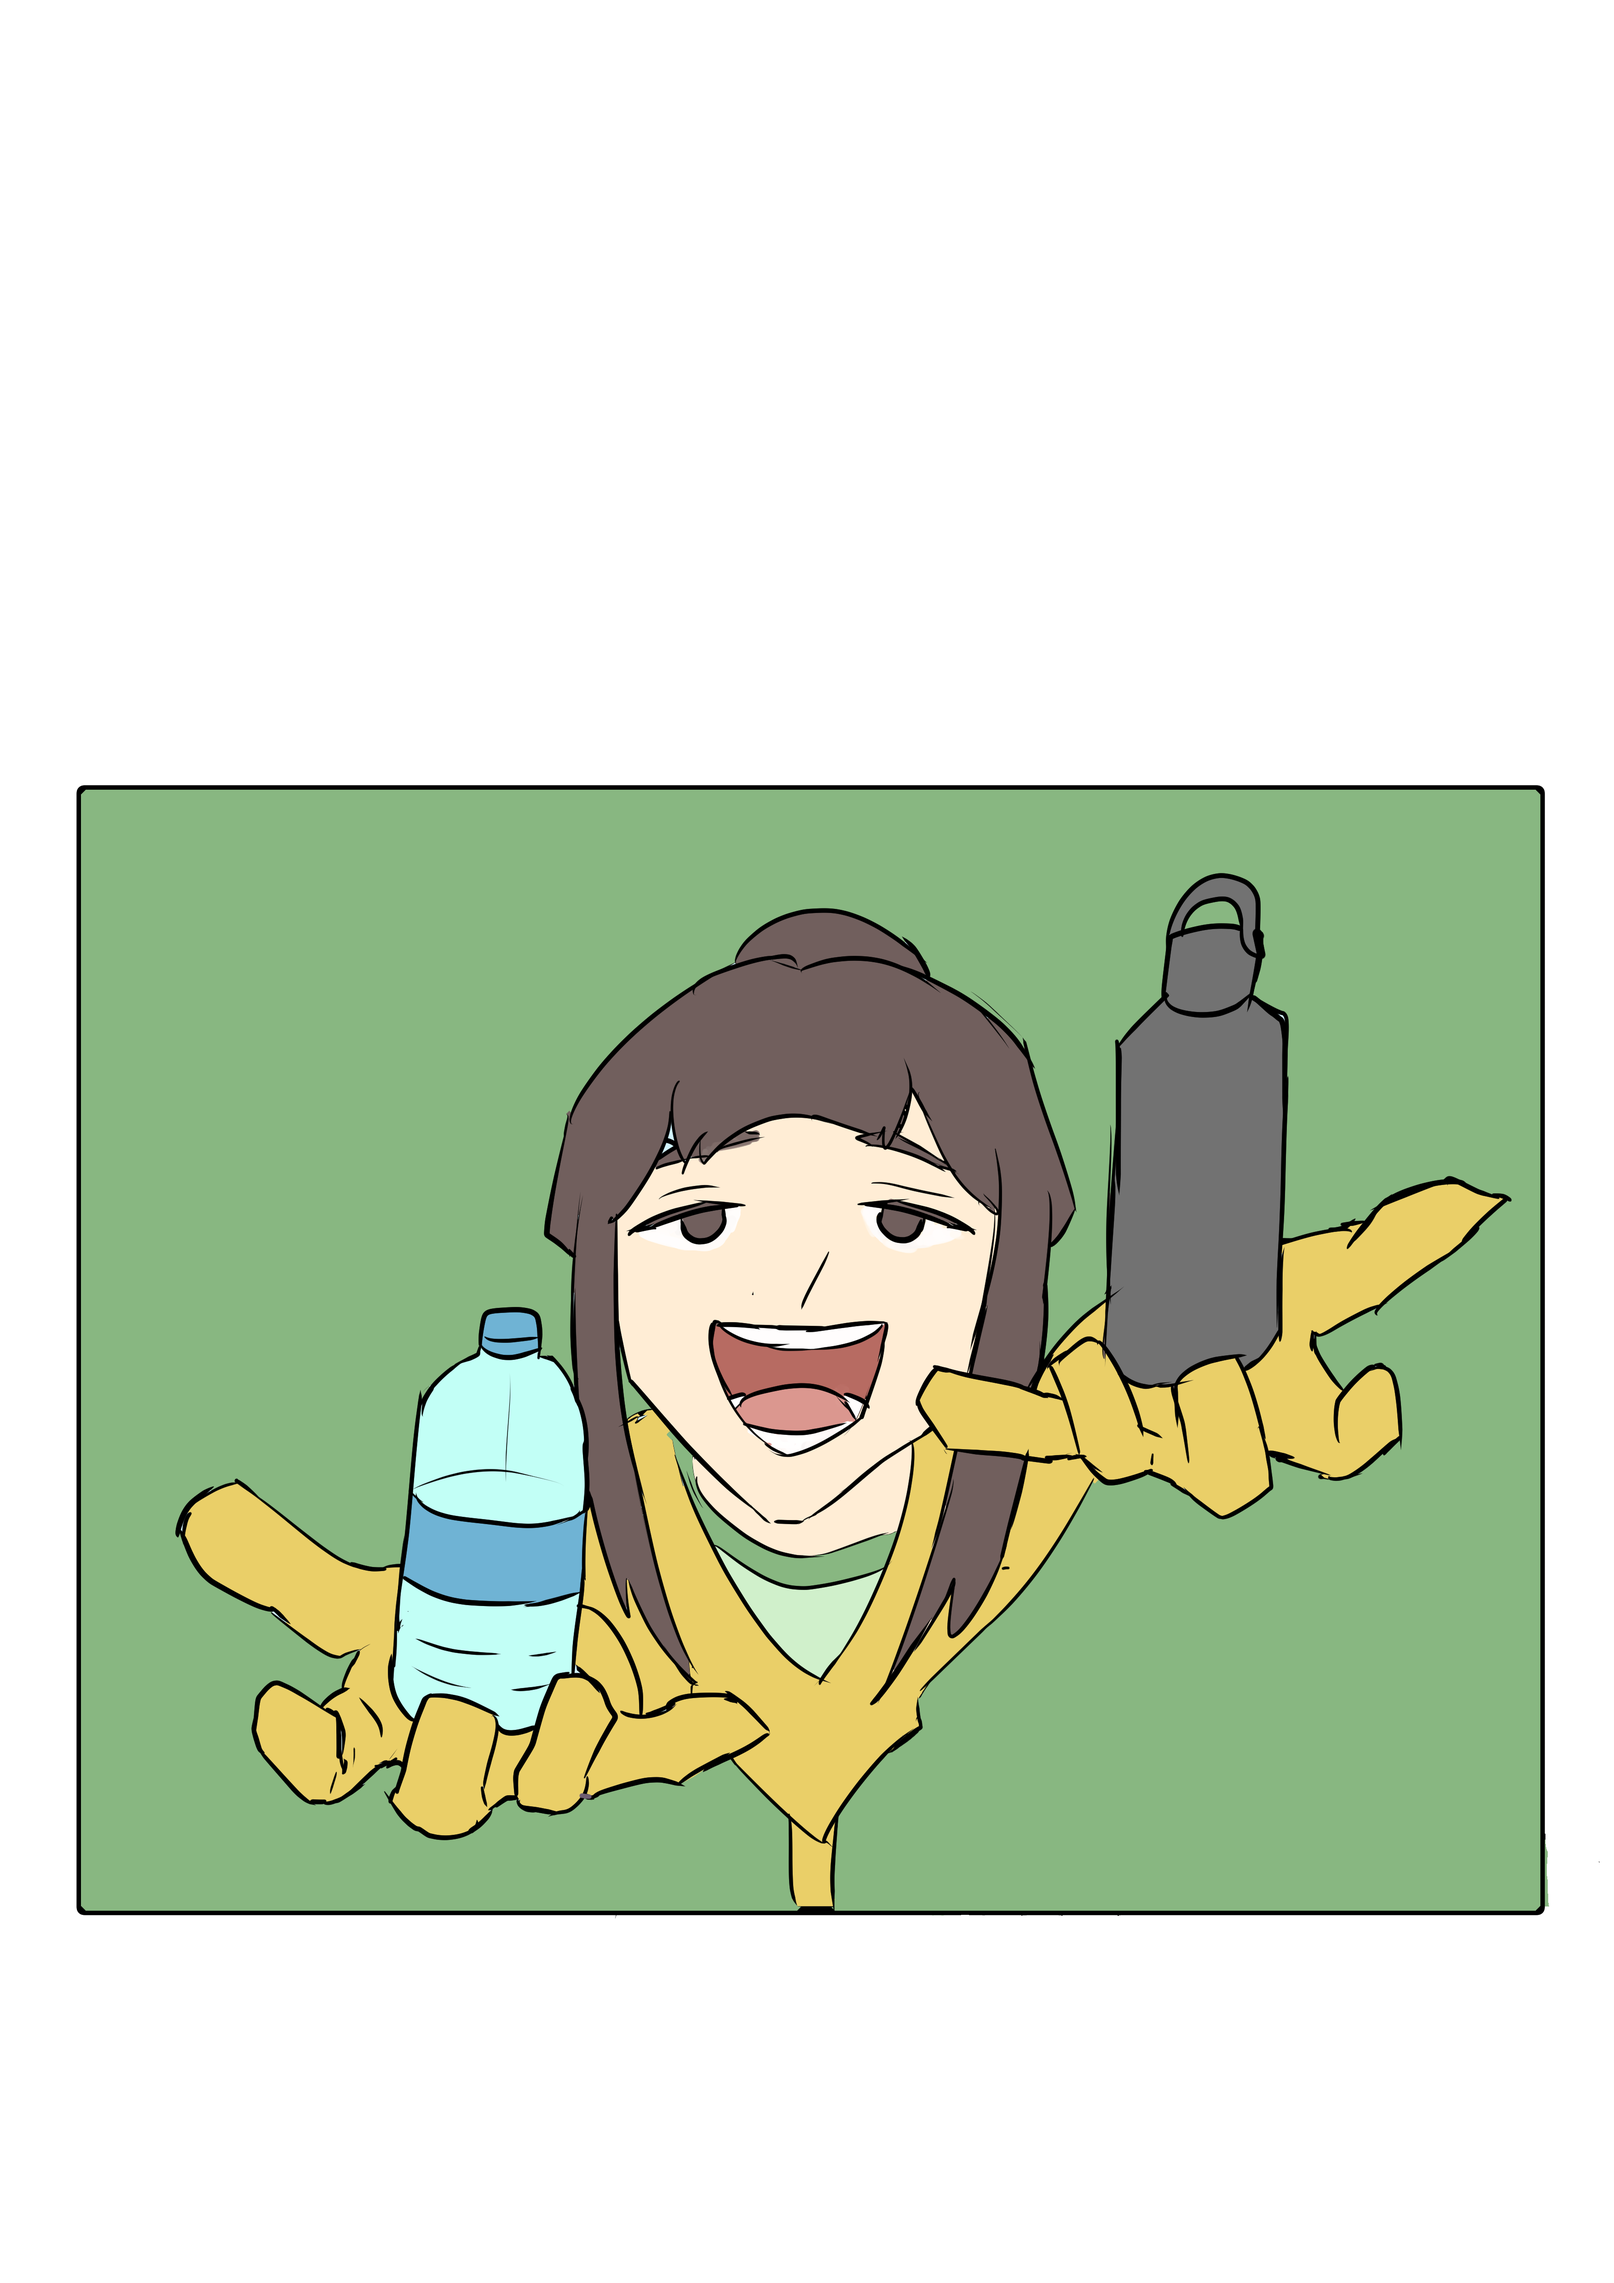
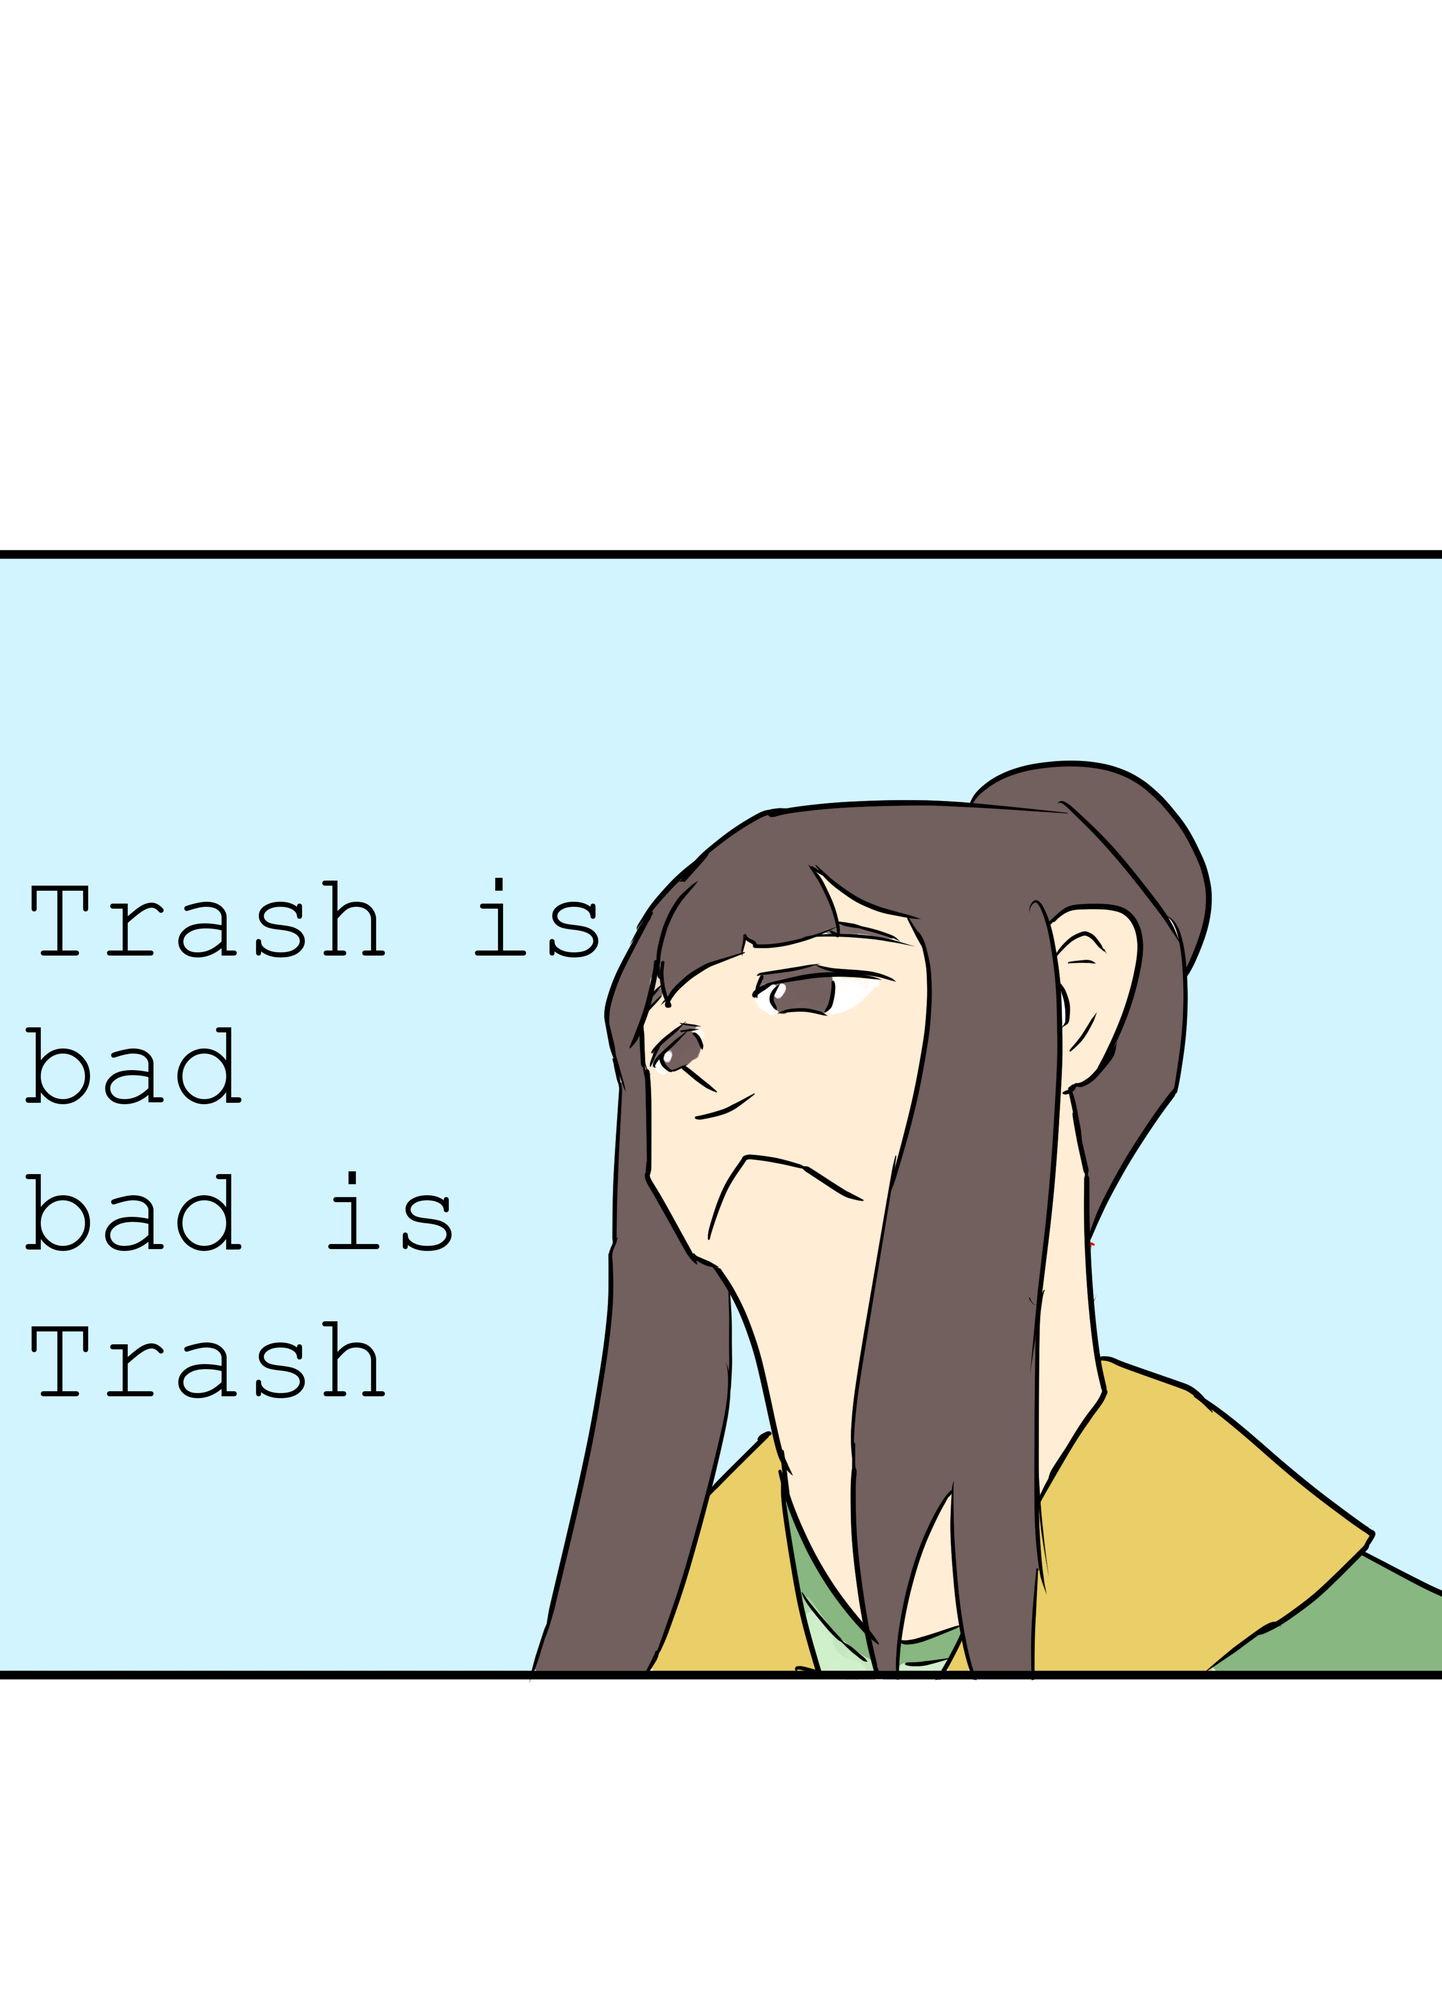
fix profile

diff --git a/frontend/src/app/api/auth/register/route.js b/frontend/src/app/api/auth/register/route.js
@@ -1,96 +1,96 @@
-import { NextResponse } from "next/server";
-import bcrypt from "bcryptjs";
-import { prisma } from "@/lib/prisma";
+  import { NextResponse } from "next/server";
+  import bcrypt from "bcryptjs";
+  import { prisma } from "@/lib/prisma";
 
-// 🔥 WAJIB (INI KUNCI UTAMA)
-export const runtime = "nodejs";
-export const dynamic = "force-dynamic";
+  // 🔥 WAJIB (INI KUNCI UTAMA)
+  export const runtime = "nodejs";
+  export const dynamic = "force-dynamic";
 
-export async function POST(request) {
-  try {
-    const { username, email, password } = await request.json();
+  export async function POST(request) {
+    try {
+      const { username, email, password } = await request.json();
 
-    if (!username || !email || !password) {
-      return NextResponse.json(
-        { error: "Semua field harus diisi" },
-        { status: 400 }
-      );
-    }
+      if (!username || !email || !password) {
+        return NextResponse.json(
+          { error: "Semua field harus diisi" },
+          { status: 400 }
+        );
+      }
 
-    const emailRegex = /^[^\s@]+@[^\s@]+\.[^\s@]+$/;
-    if (!emailRegex.test(email)) {
-      return NextResponse.json(
-        { error: "Format email tidak valid" },
-        { status: 400 }
-      );
-    }
+      const emailRegex = /^[^\s@]+@[^\s@]+\.[^\s@]+$/;
+      if (!emailRegex.test(email)) {
+        return NextResponse.json(
+          { error: "Format email tidak valid" },
+          { status: 400 }
+        );
+      }
 
-    if (password.length < 6) {
-      return NextResponse.json(
-        { error: "Password minimal 6 karakter" },
-        { status: 400 }
-      );
-    }
+      if (password.length < 6) {
+        return NextResponse.json(
+          { error: "Password minimal 6 karakter" },
+          { status: 400 }
+        );
+      }
 
-    const existingUser = await prisma.user.findUnique({
-      where: { email },
-    });
+      const existingUser = await prisma.user.findUnique({
+        where: { email },
+      });
 
-    if (existingUser) {
-      return NextResponse.json(
-        { error: "Email sudah terdaftar" },
-        { status: 400 }
-      );
-    }
+      if (existingUser) {
+        return NextResponse.json(
+          { error: "Email sudah terdaftar" },
+          { status: 400 }
+        );
+      }
 
-    const existingUsername = await prisma.user.findUnique({
-      where: { username },
-    });
+      const existingUsername = await prisma.user.findUnique({
+        where: { username },
+      });
 
-    if (existingUsername) {
-      return NextResponse.json(
-        { error: "Username sudah digunakan" },
-        { status: 400 }
-      );
-    }
+      if (existingUsername) {
+        return NextResponse.json(
+          { error: "Username sudah digunakan" },
+          { status: 400 }
+        );
+      }
 
-    const hashedPassword = await bcrypt.hash(password, 10);
+      const hashedPassword = await bcrypt.hash(password, 10);
 
-    const user = await prisma.user.create({
-      data: {
-        name: username,
-        username,
-        email,
-        password: hashedPassword,
-      },
-    });
-
-    const response = NextResponse.json(
-      {
-        message: "Registrasi berhasil",
-        user: {
-          id: user.id,
-          username: user.username,
-          email: user.email,
+      const user = await prisma.user.create({
+        data: {
+          name: username,
+          username,
+          email,
+          password: hashedPassword,
         },
-      },
-      { status: 201 }
-    );
+      });
 
-    response.cookies.set("session", user.id.toString(), {
-      httpOnly: true,
-      secure: process.env.NODE_ENV === "production",
-      sameSite: "lax",
-      maxAge: 60 * 60 * 24 * 7,
-      path: "/",
-    });
+      const response = NextResponse.json(
+        {
+          message: "Registrasi berhasil",
+          user: {
+            id: user.id,
+            username: user.username,
+            email: user.email,
+          },
+        },
+        { status: 201 }
+      );
 
-    return response;
-  } catch (error) {
-    console.error("Register error:", error);
-    return NextResponse.json(
-      { error: "Terjadi kesalahan saat registrasi" },
-      { status: 500 }
-    );
+      response.cookies.set("session", user.id.toString(), {
+        httpOnly: true,
+        secure: process.env.NODE_ENV === "production",
+        sameSite: "lax",
+        maxAge: 60 * 60 * 24 * 7,
+        path: "/",
+      });
+
+      return response;
+    } catch (error) {
+      console.error("Register error:", error);
+      return NextResponse.json(
+        { error: "Terjadi kesalahan saat registrasi" },
+        { status: 500 }
+      );
+    }
   }
-}

diff --git a/frontend/src/app/components/QuizCard.jsx b/frontend/src/app/components/QuizCard.jsx
@@ -154,6 +154,24 @@ export default function QuizCard() {
   const [fanworks, setFanworks] = useState([]);
   const [loading, setLoading] = useState(true);
 
+  // Contoh Fanwork Data (Static)
+  const exampleFanworks = [
+    {
+      id: "example-1",
+      user: { name: "Demo User" },
+      title: "Flora Pendaur Ulang Handal",
+      description: "Flora sedang memulai ulang berbagai barang bekas untuk menguranginya menjadi karya yang lebih berguna.",
+      imageUrl: "/images/Fan Page 1.png",
+    },
+    {
+      id: "example-2",
+      user: { name: "Demo User" },
+      title: "Trash is Bad, Bad is Trash",
+      description: "Karya yang menggambarkan pentingnya menjaga kebersihan lingkungan dan dampak buruk dari sampah yang tidak dikelola dengan baik.",
+      imageUrl: "/images/Fan Page 2.png",
+    },
+  ];
+
   useEffect(() => {
     fetchFanworks();
   }, []);
@@ -184,7 +202,10 @@ export default function QuizCard() {
     );
   }
 
-  if (fanworks.length === 0) {
+  // Gabungkan contoh fanwork dengan data dari API
+  const allFanworks = [...exampleFanworks, ...fanworks];
+
+  if (allFanworks.length === 0) {
     return (
       <div className="py-12 px-4">
         <div className="text-center text-gray-500">
@@ -197,7 +218,7 @@ export default function QuizCard() {
   return (
     <div className="py-12 px-4">
       <div className="grid grid-cols-1 sm:grid-cols-2 lg:grid-cols-3 gap-8 max-w-7xl mx-auto">
-        {fanworks.map((item) => (
+        {allFanworks.map((item) => (
           <CardItem
             key={item.id}
             username={item.user?.name || "User"}

diff --git a/frontend/src/app/layout.js b/frontend/src/app/layout.js
@@ -3,7 +3,6 @@ import "./globals.css";
 import Footer from "./components/Footer";
 import Navbar from "./components/Navbar";
 
-
 const playfair = Playfair_Display({
   variable: "--font-playfair",
   weight: ["400","500","600","700","800","900"],
@@ -16,8 +15,11 @@ const inter = Inter({
 });
 
 export const metadata = {
-  title: "Create Next App",
-  description: "Generated by create next app",
+  title: "Bumi Bersih",
+  description: "Platform edukasi kebersihan lingkungan dan daur ulang",
+  icons: {
+    icon: "/icon/logo.svg",
+  },
 };
 
 export default function RootLayout({ children }) {
@@ -33,4 +35,3 @@ export default function RootLayout({ children }) {
     </html>
   );
 }
-

diff --git a/frontend/src/app/signin-berhasil/page.js b/frontend/src/app/signin-berhasil/page.js
@@ -20,7 +20,7 @@ export default function SigninBerhasil() {
         <div className="hidden md:flex items-center justify-center p-6 lg:p-8 bg-white">
           <div className="relative w-full h-[300px] lg:h-[340px]">
             <Image
-              src="/images/login.png"
+              src="/images/Login.png"
               alt="Signin Success Illustration"
               fill
               className="object-contain"

diff --git a/frontend/src/app/signup-berhasil/page.js b/frontend/src/app/signup-berhasil/page.js
@@ -20,7 +20,7 @@ export default function SignupBerhasil() {
         <div className="hidden md:flex items-center justify-center p-6 lg:p-8 bg-white">
           <div className="relative w-full h-[300px] lg:h-[340px]">
             <Image
-              src="/images/login.png"
+              src="/images/Login.png"
               alt="Signup Success Illustration"
               fill
               className="object-contain"

diff --git a/frontend/src/app/page.js b/frontend/src/app/page.js
@@ -157,7 +157,7 @@ export default function BumiBersihApp() {
             <div className="relative w-full max-w-md md:max-w-lg">
               <div className="relative w-full aspect-square">
                 <Image
-                  src="/images/Home Page 44.png"
+                  src="/images/homepage5.png"
                   fill
                   alt="Daur Ulang"
                   className="object-contain"

diff --git a/frontend/src/app/fanwork/page.js b/frontend/src/app/fanwork/page.js
@@ -44,7 +44,7 @@ export default function Fanwork() {
         <div className="max-w-7xl mx-auto">
           <div className="mx-8 mb-8 relative flex justify-center items-end h-[526px] rounded-2xl overflow-hidden">
             <Image
-              src="/images/fanwork.png"
+              src="/images/Fanwork.png"
               fill
               alt="Fanwork Illustration"
               className="object-cover"

diff --git a/frontend/src/app/sign-up/page.js b/frontend/src/app/sign-up/page.js
@@ -60,7 +60,7 @@ export default function SignUpPage() {
         <div className="hidden md:flex items-center justify-center bg-white p-6 lg:p-8">
           <div className="relative w-full h-[320px] lg:h-[380px]">
             <Image
-              src="/images/login.png"
+              src="/images/Login.png"
               alt="Sign Up Illustration"
               fill
               className="object-contain"

diff --git a/frontend/src/app/sign-in/page.js b/frontend/src/app/sign-in/page.js
@@ -49,7 +49,7 @@ export default function SignIn() {
           <div className="h-full flex items-center justify-center">
             <div className="relative w-full h-[300px] lg:h-[340px]">
               <Image
-                src="/images/login.png"
+                src="/images/Login.png"
                 alt="Login Illustration"
                 fill
                 className="object-contain"

diff --git a/frontend/src/app/recycle-bay/page.js b/frontend/src/app/recycle-bay/page.js
@@ -46,7 +46,7 @@ export default function RecycleBay() {
         <div className="max-w-5xl mx-auto">
           <div className="relative w-full h-96 rounded-3xl overflow-hidden mb-12">
             <Image
-              src="/images/fanwork.png"
+              src="/images/Fanwork.png"
               alt="Recycle Bay Illustration"
               fill
               className="object-contain"
